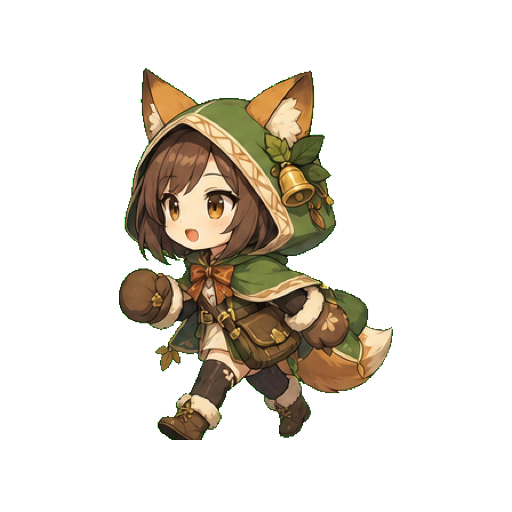
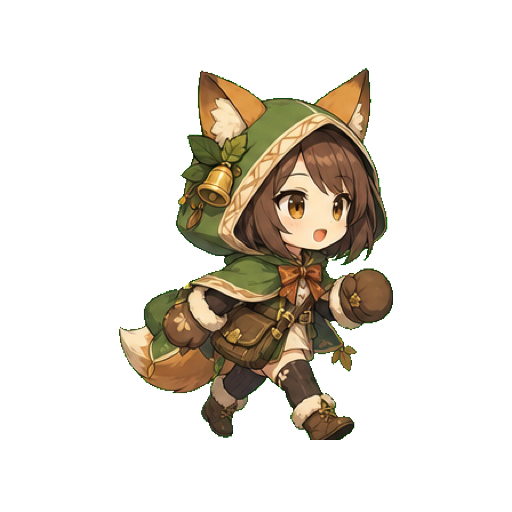
Fix Kohaku Mori walk direction

Changed region(s): [[0.2188, 0.125, 0.7812, 0.875]]

diff --git a/Scripts/import_kohaku_mori.swift b/Scripts/import_kohaku_mori.swift
@@ -42,12 +42,12 @@ for outputRoot in outputRoots {
     try FileManager.default.createDirectory(at: posesURL, withIntermediateDirectories: true)
 
     for (index, pose) in poses.enumerated() {
-        let cropped = try cropPose(from: cgImage, index: index)
+        let cropped = try cropPose(from: cgImage, index: index, facesRightByDefault: pose.key == "walk" || pose.key == "walkAlt" || pose.key == "play")
         try writePNG(cropped, to: posesURL.appendingPathComponent(pose.file))
     }
 }
 
-func cropPose(from image: CGImage, index: Int) throws -> NSImage {
+func cropPose(from image: CGImage, index: Int, facesRightByDefault: Bool) throws -> NSImage {
     let columns = 4
     let rows = 3
     let cellWidth = image.width / columns
@@ -93,7 +93,16 @@ func cropPose(from image: CGImage, index: Int) throws -> NSImage {
     let drawSize = CGSize(width: CGFloat(subject.width) * scale, height: CGFloat(subject.height) * scale)
     let x = (CGFloat(canvasSize) - drawSize.width) / 2
     let y: CGFloat = index == 11 ? 122 : 72
-    context.draw(subject, in: CGRect(x: x, y: y, width: drawSize.width, height: drawSize.height))
+    let target = CGRect(x: x, y: y, width: drawSize.width, height: drawSize.height)
+    if facesRightByDefault {
+        context.saveGState()
+        context.translateBy(x: CGFloat(canvasSize), y: 0)
+        context.scaleBy(x: -1, y: 1)
+        context.draw(subject, in: CGRect(x: CGFloat(canvasSize) - target.maxX, y: target.minY, width: target.width, height: target.height))
+        context.restoreGState()
+    } else {
+        context.draw(subject, in: target)
+    }
 
     guard let output = context.makeImage() else {
         throw NSError(domain: "KohakuMoriImport", code: 4)
